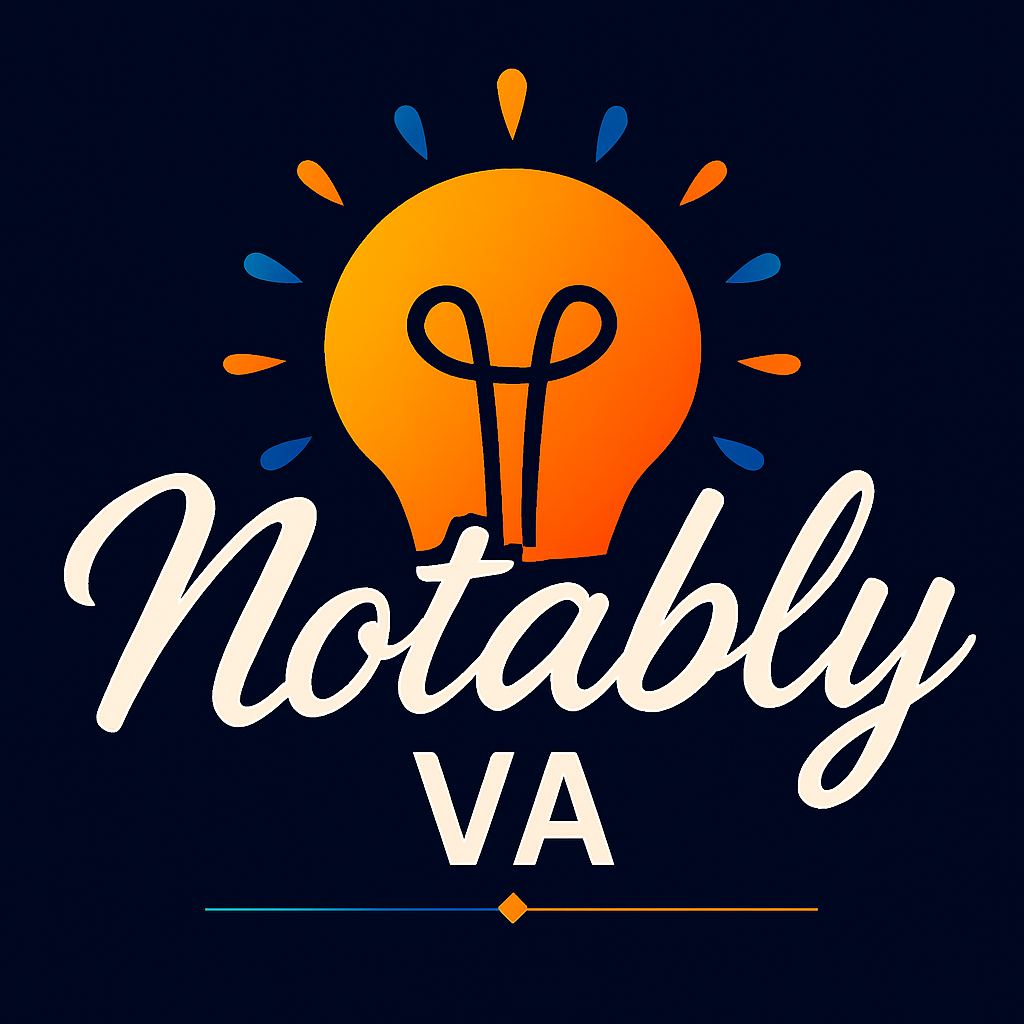
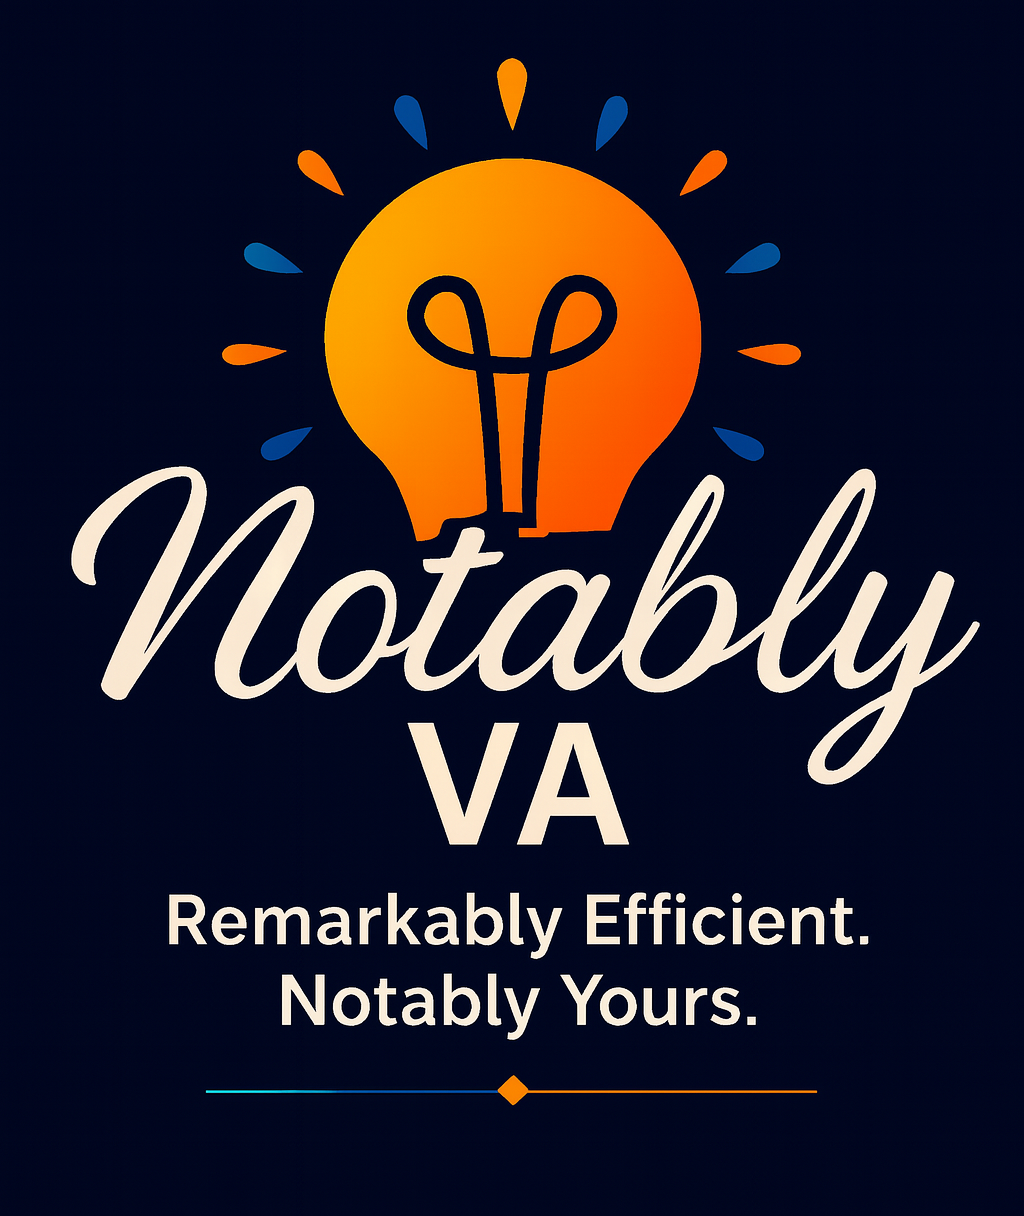
updated branding

Changed region(s): [[0.0625, 0.0312, 0.9688, 0.9062], [0.7188, 0.1875, 0.7812, 0.3125]]

diff --git a/executive-assistance.html b/executive-assistance.html
@@ -14,6 +14,7 @@
   <link rel="icon" href="images/favicon.ico" />
   <title>Executive Assistance | Notably VA</title>
 
+<<<<<<< HEAD
   <!-- Google tag -->
   <script async src="https://www.googletagmanager.com/gtag/js?id=G-PK8VR84T24"></script>
   <script>
@@ -22,6 +23,17 @@
     gtag('js', new Date());
     gtag('config', 'G-PK8VR84T24');
   </script>
+=======
+  <!-- Google tag (gtag.js) -->
+<script async src="https://www.googletagmanager.com/gtag/js?id=G-PK8VR84T24"></script>
+<script>
+  window.dataLayer = window.dataLayer || [];
+  function gtag(){dataLayer.push(arguments);}
+  gtag('js', new Date());
+
+  gtag('config', 'G-PK8VR84T24');
+</script>
+>>>>>>> ebf57c2 (updated logo and slogan in index.html)
 </head>
 <body>
   <header class="header-centered">

diff --git a/customer-service.html b/customer-service.html
@@ -14,6 +14,7 @@
   <link rel="icon" href="images/favicon.ico" />
   <title>Customer Service | Notably VA</title>
 
+<<<<<<< HEAD
   <!-- Google tag -->
   <script async src="https://www.googletagmanager.com/gtag/js?id=G-PK8VR84T24"></script>
   <script>
@@ -22,6 +23,17 @@
     gtag('js', new Date());
     gtag('config', 'G-PK8VR84T24');
   </script>
+=======
+  <!-- Google tag (gtag.js) -->
+<script async src="https://www.googletagmanager.com/gtag/js?id=G-PK8VR84T24"></script>
+<script>
+  window.dataLayer = window.dataLayer || [];
+  function gtag(){dataLayer.push(arguments);}
+  gtag('js', new Date());
+
+  gtag('config', 'G-PK8VR84T24');
+</script>
+>>>>>>> ebf57c2 (updated logo and slogan in index.html)
 </head>
 <body>
   <header class="header-centered">

diff --git a/index.html b/index.html
@@ -16,6 +16,7 @@
   <title>Notably VA</title>
 
   <!-- Google tag (gtag.js) -->
+<<<<<<< HEAD
   <script async src="https://www.googletagmanager.com/gtag/js?id=G-PK8VR84T24"></script>
   <script>
     window.dataLayer = window.dataLayer || [];
@@ -23,6 +24,16 @@
     gtag('js', new Date());
     gtag('config', 'G-PK8VR84T24');
   </script>
+=======
+<script async src="https://www.googletagmanager.com/gtag/js?id=G-PK8VR84T24"></script>
+<script>
+  window.dataLayer = window.dataLayer || [];
+  function gtag(){dataLayer.push(arguments);}
+  gtag('js', new Date());
+
+  gtag('config', 'G-PK8VR84T24');
+</script>
+>>>>>>> ebf57c2 (updated logo and slogan in index.html)
 </head>
 <body>
 

diff --git a/contact.html b/contact.html
@@ -6,6 +6,17 @@
   <title>Contact Us | Notably VA</title>
   <link rel="stylesheet" href="css/styles.css" />
   <link rel="icon" href="images/favicon.ico" />
+  
+  <!-- Google tag (gtag.js) -->
+<script async src="https://www.googletagmanager.com/gtag/js?id=G-PK8VR84T24"></script>
+<script>
+  window.dataLayer = window.dataLayer || [];
+  function gtag(){dataLayer.push(arguments);}
+  gtag('js', new Date());
+
+  gtag('config', 'G-PK8VR84T24');
+</script>
+  
 </head>
 <body>
   <header class="header-centered">
